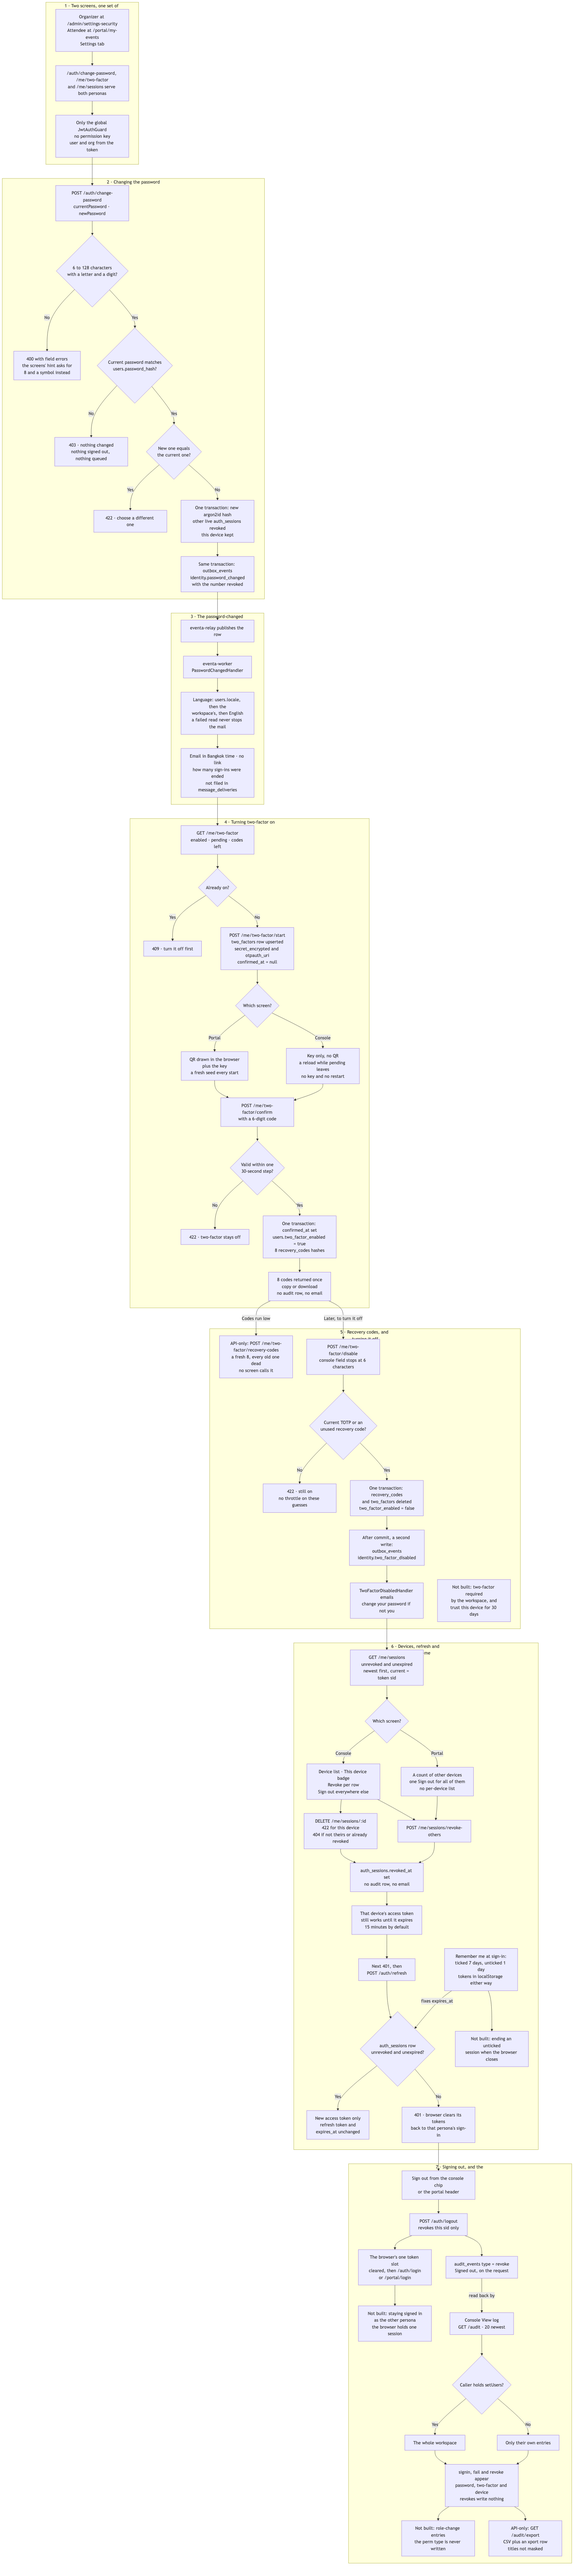
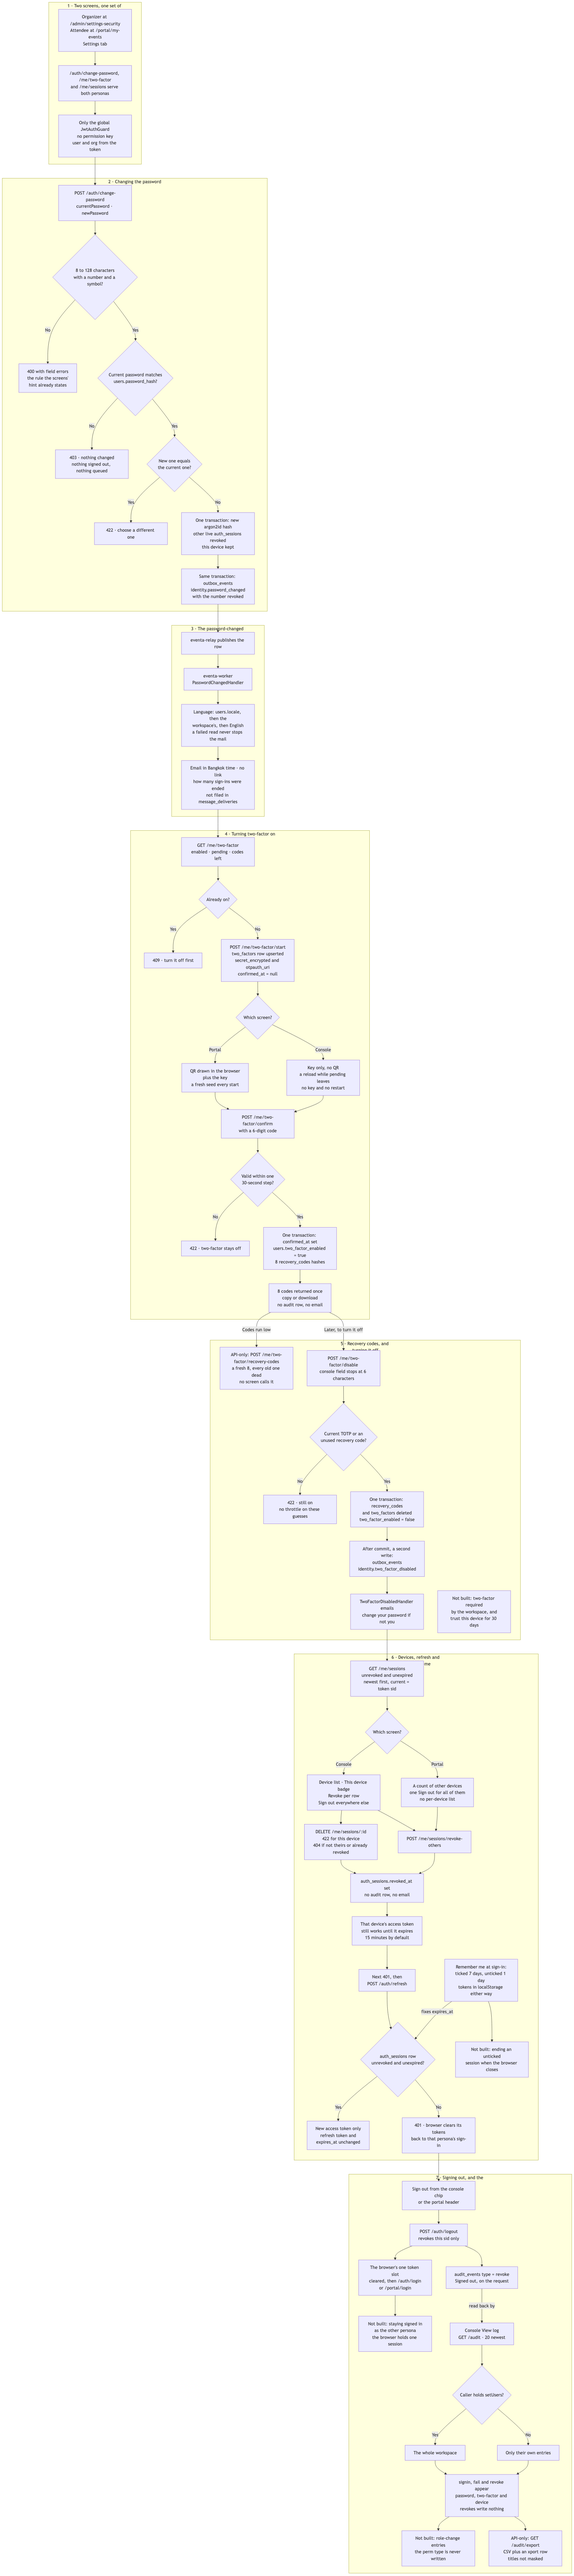
docs(flowcharts): state the password rule the API enforces on develop (US-SET-02)
Flow 15 still said a new password needed 6–128 characters with a letter and
a digit, and that the screens' "8 characters, a number and a symbol" hint
promised something the API did not enforce. The shared rule in
auth-password.policy.ts is now 8–128 characters with a number and a symbol,
exactly what the hint says. The PNG is re-rendered.

diff --git a/04-architecture/flowcharts/15-account-security.md b/04-architecture/flowcharts/15-account-security.md
@@ -8,7 +8,7 @@ How a signed-in person looks after their own account. It starts on one of two sc
 
 1. **Two screens, one set of routes.** An organizer reaches **Settings → Security** at `/admin/settings-security`; an attendee reaches the Security card on the Settings tab of `/portal/my-events` (the tab is page state, not part of the URL). Behind both sit the same endpoints — `POST /auth/change-password`, `/me/two-factor/*` and `/me/sessions/*` — and none of them carries a permission key or the `AdminGuard`: the global `JwtAuthGuard` is the only gate, and every query takes the user and the organization from the access token, never from the path, so one person can neither read nor revoke anybody else's. It is also why the two personas never see each other's devices on the same address: an organizer and an attendee are separate `users` rows, told apart by `persona`, each with its own sessions and its own enrolment. The two screens load differently on purpose. The console page reads `GET /me/sessions`, `GET /me/two-factor` and `GET /audit?limit=20` together and fails as a whole unless all three answer, because security is that page's whole subject. The portal reads `GET /me/two-factor` and `GET /me/sessions` as separate panels, so one unavailable endpoint costs one row of the card rather than somebody's tickets, and it reduces the session list to a single number. On both, the password and two-factor forms open in a slide-over rather than sitting inline, so a password form never stands open on a settings page for a browser to autofill; only the session controls sit on the card itself.
 
-2. **Changing the password.** Both screens ask for the current password, a new one and the new one again; the confirmation is compared in the browser and never sent, because it is a typo guard rather than a security rule. `POST /auth/change-password` takes `currentPassword` and `newPassword`, and the DTO holds the new one to the single rule sign-up and reset also use: 6 to 128 characters with at least one letter and one digit (`PASSWORD_MIN_LENGTH`, `PASSWORD_PATTERN`), refused with a 400 and field errors. **Both screens' hint promises something else** — "At least 8 characters, with a number and a symbol", which is US-SET-02's wording — and the API enforces neither half of it: six characters of letters and one digit are accepted, and no symbol is ever required. The service then loads the caller's row (by user and organization, not soft-deleted) and verifies `currentPassword` against `users.password_hash` with argon2. A mismatch is a **403**, "Your current password is incorrect.", with nothing changed, nothing signed out and nothing queued — a 403 rather than a 401 because the web client reads any 401 as an access token that has aged out, tries `POST /auth/refresh` and then sends the person to sign-in, which is the wrong answer to a typo. An account that has only ever signed in through a social provider has no `password_hash` and gets the same 403, so this endpoint cannot set a first password. Wrong guesses here are not counted against the sign-in lockout; the route is reachable only with a live access token. A new password equal to the current one is a 422. Then, in **one** tenant transaction: `users.password_hash` becomes the new argon2id hash; every `auth_sessions` row for the user with `revoked_at IS NULL` **and** `expires_at` still in the future, other than the caller's own `sid`, gets `revoked_at`; and an `outbox_events` row with `routing_key = 'identity.password_changed'` is written carrying how many rows that revoke touched. The notice shares the transaction because a committed change whose notice was lost is exactly the silent takeover it exists to announce. The expiry filter is there because nothing purges lapsed rows — somebody who signs in monthly and never signs out accumulates a dozen — and counting them once told a person on their only device that twelve others had been signed out. The device that made the change stays signed in on the tokens it already holds, and any reset link already emailed stops working too, since a reset token carries a fingerprint of the old hash. No `audit_events` row is written: the `pwd` audit type exists and nothing uses it. The portal says before the submit that every other device will be signed out and confirms "Password changed. Your other devices have been signed out."; the console says "Password changed."
+2. **Changing the password.** Both screens ask for the current password, a new one and the new one again; the confirmation is compared in the browser and never sent, because it is a typo guard rather than a security rule. `POST /auth/change-password` takes `currentPassword` and `newPassword`, and the DTO holds the new one to the single rule sign-up and reset also use: 8 to 128 characters with at least one number and one symbol (`PASSWORD_MIN_LENGTH`, `PASSWORD_MAX_LENGTH`, `PASSWORD_PATTERN`), where a symbol is anything that is not a letter, a combining mark or a number and no letter is required, refused with a 400 whose field message is "Password must be at least 8 characters and include a number and a symbol." Both screens' hint, "At least 8 characters, with a number and a symbol.", is US-SET-02's wording and states exactly that rule. The service then loads the caller's row (by user and organization, not soft-deleted) and verifies `currentPassword` against `users.password_hash` with argon2. A mismatch is a **403**, "Your current password is incorrect.", with nothing changed, nothing signed out and nothing queued — a 403 rather than a 401 because the web client reads any 401 as an access token that has aged out, tries `POST /auth/refresh` and then sends the person to sign-in, which is the wrong answer to a typo. An account that has only ever signed in through a social provider has no `password_hash` and gets the same 403, so this endpoint cannot set a first password. Wrong guesses here are not counted against the sign-in lockout; the route is reachable only with a live access token. A new password equal to the current one is a 422. Then, in **one** tenant transaction: `users.password_hash` becomes the new argon2id hash; every `auth_sessions` row for the user with `revoked_at IS NULL` **and** `expires_at` still in the future, other than the caller's own `sid`, gets `revoked_at`; and an `outbox_events` row with `routing_key = 'identity.password_changed'` is written carrying how many rows that revoke touched. The notice shares the transaction because a committed change whose notice was lost is exactly the silent takeover it exists to announce. The expiry filter is there because nothing purges lapsed rows — somebody who signs in monthly and never signs out accumulates a dozen — and counting them once told a person on their only device that twelve others had been signed out. The device that made the change stays signed in on the tokens it already holds, and any reset link already emailed stops working too, since a reset token carries a fingerprint of the old hash. No `audit_events` row is written: the `pwd` audit type exists and nothing uses it. The portal says before the submit that every other device will be signed out and confirms "Password changed. Your other devices have been signed out."; the console says "Password changed."
 
 3. **The password-changed notice.** eventa-relay publishes the row to RabbitMQ and stamps its `published_at`; the API never publishes. eventa-worker's `PasswordChangedHandler` consumes `identity.password_changed` and emails the address on the message. It is **unconditional** — no template behind it and no switch an organizer can turn off — because a workspace may silence its attendee mail but not somebody's security correspondence. Its one database read chooses a language — `users.locale`, then the workspace's `organizations.locale`, then English — and cannot stop the send: any failure writes English, logs a warning by user id only and counts a degraded send, because an English notice that arrives beats a localised one that does not. The mail, in English or Thai, stamps the change in Asia/Bangkok time so the reader can match it against what they remember doing, says how many other **sign-ins** were ended (an `auth_sessions` row is one sign-in, not one device, and the sentence is dropped when the count is zero), and tells somebody who did not do this to use "Forgot your password?", because a reset signs out every session including the one the change came from (see [Sign-up, confirmation and password reset](14-sign-up-confirm-and-reset-password.md)). It carries no link — a security notice that trains people to click links is the lure it warns about — no device or IP address, which this request does not reliably know, and no workspace name, which the event does not carry, so an organizer with accounts in two workspaces cannot tell which one changed. It is not filed in `message_deliveries`, the organizer's delivery log, where colleagues could read a member's personal mail. A redelivered message sends nothing twice: the consumer dedupes on the message id before dispatch.
 
@@ -31,8 +31,8 @@ flowchart TD
   end
 
   subgraph TWO["2 · Changing the password"]
-    B1["POST /auth/change-password<br/>currentPassword · newPassword"] --> B2{"6 to 128 characters<br/>with a letter and a digit?"}
-    B2 -- "No" --> B3["400 with field errors<br/>the screens' hint asks for<br/>8 and a symbol instead"]
+    B1["POST /auth/change-password<br/>currentPassword · newPassword"] --> B2{"8 to 128 characters<br/>with a number and a symbol?"}
+    B2 -- "No" --> B3["400 with field errors<br/>the rule the screens'<br/>hint already states"]
     B2 -- "Yes" --> B4{"Current password matches<br/>users.password_hash?"}
     B4 -- "No" --> B5["403 · nothing changed<br/>nothing signed out, nothing queued"]
     B4 -- "Yes" --> B6{"New one equals<br/>the current one?"}
